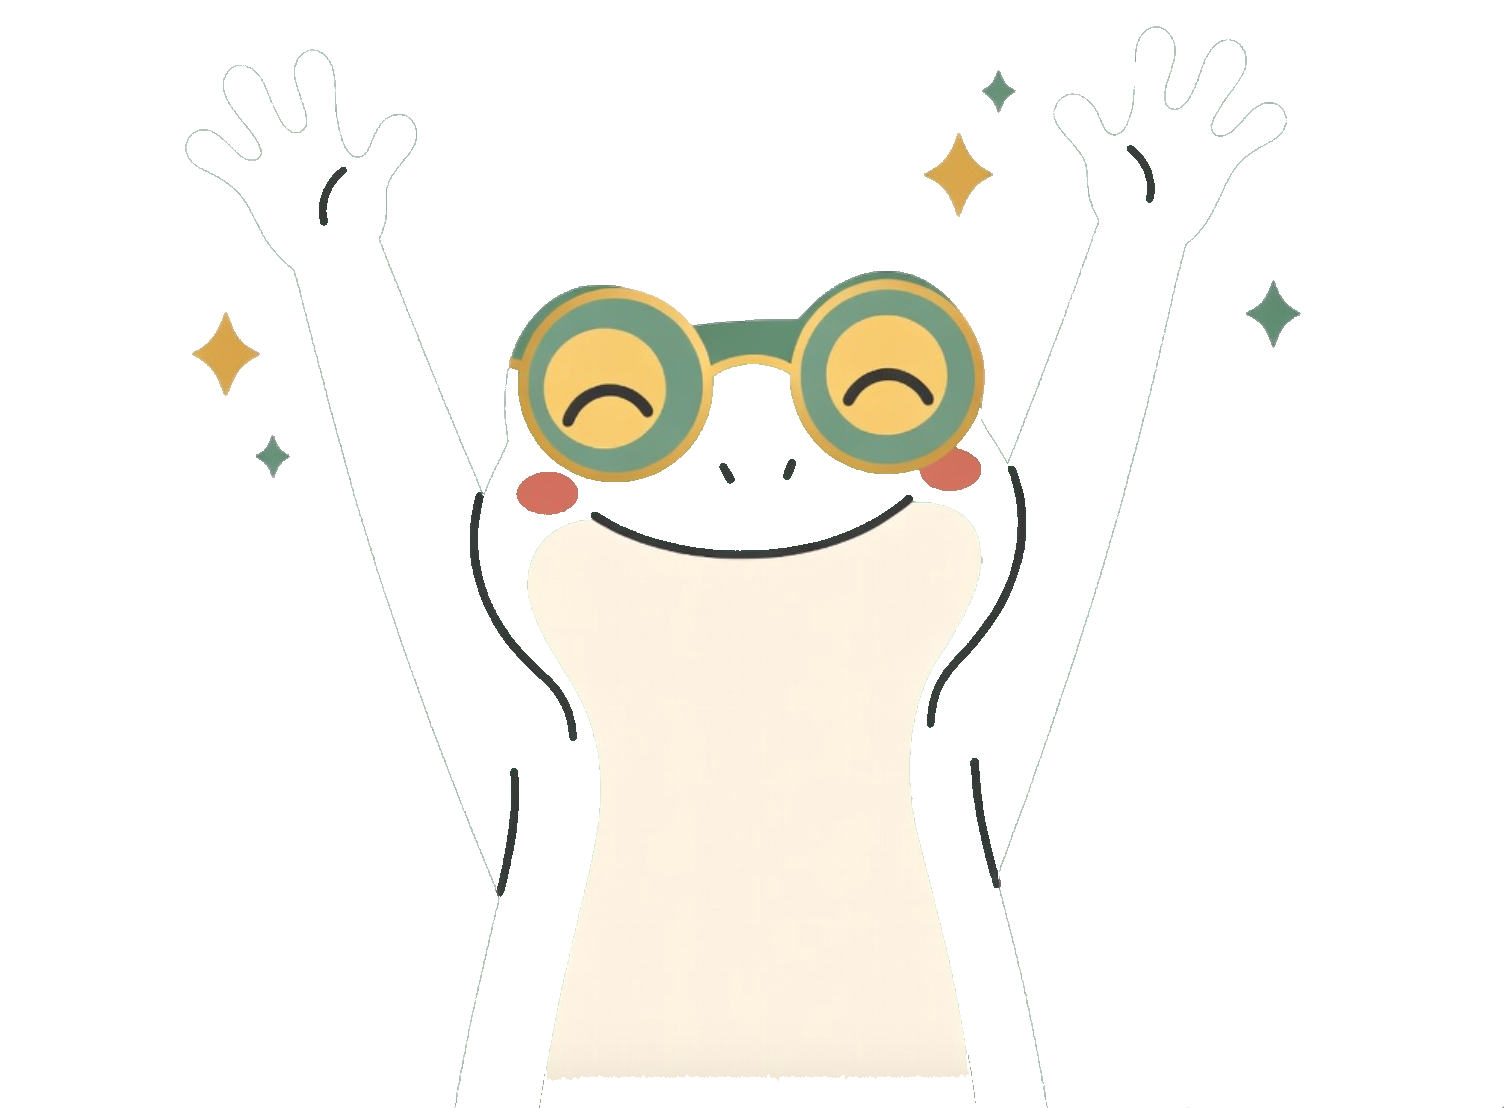
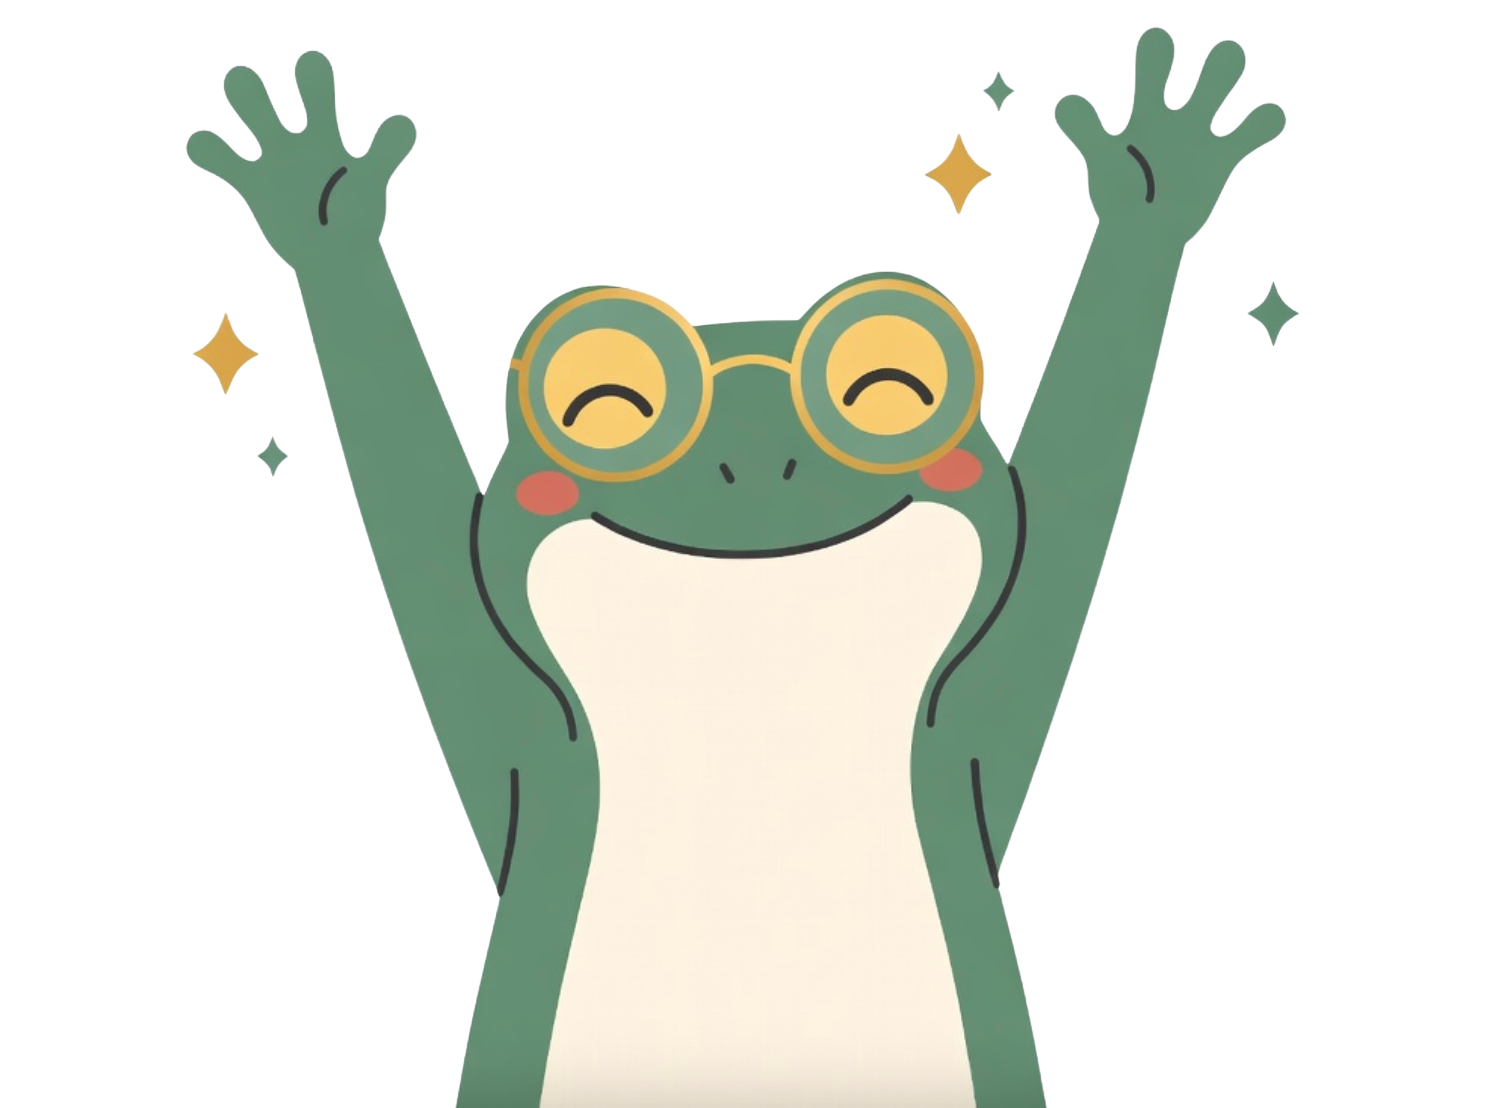
Edit index.html

Changed region(s): [[0.125, 0.0307, 0.875, 1.0]]

diff --git a/_hub.html b/_hub.html
@@ -373,13 +373,13 @@
             <a href="_portal.html" class="file-card" target="_blank">
               <span class="file-icon">📄</span>
               <span class="file-name">_portal.html</span>
-              <span class="file-meta">28.4 KB</span>
+              <span class="file-meta">28.9 KB</span>
             </a>
           
             <a href="_hub.html" class="file-card" target="_blank">
               <span class="file-icon">📄</span>
               <span class="file-name">_hub.html</span>
-              <span class="file-meta">35.3 KB</span>
+              <span class="file-meta">35.6 KB</span>
             </a>
           
             <a href="index.html" class="file-card" target="_blank">
@@ -481,6 +481,12 @@
         <h3>📁 Other Files</h3>
         <div class="file-grid">
           
+            <a href="uploads/2026-08-14_11-54-30 - Edited (1).png" class="file-card" target="_blank">
+              <span class="file-icon">🖼</span>
+              <span class="file-name">uploads/2026-08-14_11-54-30 - Edited (1).png</span>
+              <span class="file-meta">544.3 KB</span>
+            </a>
+          
             <a href="uploads/pasted-image-1786884897207.png" class="file-card" target="_blank">
               <span class="file-icon">🖼</span>
               <span class="file-name">uploads/pasted-image-1786884897207.png</span>
@@ -535,14 +541,8 @@
               <span class="file-meta">37.2 KB</span>
             </a>
           
-            <a href="uploads/pasted-image-1786831327079.png" class="file-card" target="_blank">
-              <span class="file-icon">🖼</span>
-              <span class="file-name">uploads/pasted-image-1786831327079.png</span>
-              <span class="file-meta">384.2 KB</span>
-            </a>
-          
         </div>
-        <p class="more-files">+39 more files</p>
+        <p class="more-files">+40 more files</p>
       </div>
     
 
@@ -580,7 +580,7 @@
         <div class="sidebar-panel">
           <h3>📊 Quick Stats</h3>
           <div class="quick-stat-grid">
-            <div class="qs-card"><div class="qs-val">63</div><div class="qs-label">Files</div></div>
+            <div class="qs-card"><div class="qs-val">64</div><div class="qs-label">Files</div></div>
             <div class="qs-card"><div class="qs-val">3</div><div class="qs-label">Pages</div></div>
             <div class="qs-card"><div class="qs-val">8</div><div class="qs-label">Code</div></div>
             <div class="qs-card"><div class="qs-val">0</div><div class="qs-label">Decisions</div></div>
@@ -596,19 +596,25 @@
               <li>
                 <span>📄</span>
                 <a href="_portal.html" target="_blank">_portal.html</a>
-                <span class="file-size">28.4 KB</span>
+                <span class="file-size">28.9 KB</span>
+              </li>
+            
+              <li>
+                <span>🖼</span>
+                <a href="uploads/2026-08-14_11-54-30 - Edited (1).png" target="_blank">uploads/2026-08-14_11-54-30 - Edited (1).png</a>
+                <span class="file-size">544.3 KB</span>
+              </li>
+            
+              <li>
+                <span>📄</span>
+                <a href="_hub.html" target="_blank">_hub.html</a>
+                <span class="file-size">35.6 KB</span>
               </li>
             
               <li>
                 <span>🖼</span>
                 <a href="uploads/pasted-image-1786884897207.png" target="_blank">uploads/pasted-image-1786884897207.png</a>
                 <span class="file-size">154.9 KB</span>
-              </li>
-            
-              <li>
-                <span>📄</span>
-                <a href="_hub.html" target="_blank">_hub.html</a>
-                <span class="file-size">35.3 KB</span>
               </li>
             
               <li>

diff --git a/_portal.html b/_portal.html
@@ -441,10 +441,10 @@
         <a href="#pages" class="nav-tab active">Pages (1)</a>
         <a href="#images" class="nav-tab">Images (8)</a>
         
-        <a href="#uploads" class="nav-tab">Uploads (19)</a>
+        <a href="#uploads" class="nav-tab">Uploads (20)</a>
         
         <a href="#screenshots" class="nav-tab">Screenshots (3)</a>
-        <a href="#" class="nav-tab">Files (59)</a>
+        <a href="#" class="nav-tab">Files (60)</a>
       </div>
     </div>
     <div class="nav-right">
@@ -469,7 +469,7 @@
         <span class="hero-stat-label">Custom Images</span>
       </div>
       <div class="hero-stat">
-        <span class="hero-stat-value">59</span>
+        <span class="hero-stat-value">60</span>
         <span class="hero-stat-label">Total Files</span>
       </div>
     </div>
@@ -546,8 +546,12 @@
     </style>
     
     <div class="materials-block" id="uploads">
-      <h3 class="materials-title">Your Uploads <span class="materials-count">19</span></h3>
-      <div class="materials-grid"><a class="material-card" href="https://app.empir3.com/workspace/fb895467-2852-4051-aa28-877708c08ccf/uploads/pasted-image-1786663123428.png" target="_blank" title="pasted-image-1786663123428.png">
+      <h3 class="materials-title">Your Uploads <span class="materials-count">20</span></h3>
+      <div class="materials-grid"><a class="material-card" href="https://app.empir3.com/workspace/fb895467-2852-4051-aa28-877708c08ccf/uploads/2026-08-14_11-54-30 - Edited (1).png" target="_blank" title="2026-08-14_11-54-30 - Edited (1).png">
+          <div class="material-preview"><img src="https://app.empir3.com/workspace/fb895467-2852-4051-aa28-877708c08ccf/uploads/2026-08-14_11-54-30 - Edited (1).png" alt="2026-08-14_11-54-30 - Edited (1).png" loading="lazy"></div>
+          <div class="material-name">2026-08-14_11-54-30 - Edited (1).png</div>
+        </a>
+<a class="material-card" href="https://app.empir3.com/workspace/fb895467-2852-4051-aa28-877708c08ccf/uploads/pasted-image-1786663123428.png" target="_blank" title="pasted-image-1786663123428.png">
           <div class="material-preview"><img src="https://app.empir3.com/workspace/fb895467-2852-4051-aa28-877708c08ccf/uploads/pasted-image-1786663123428.png" alt="pasted-image-1786663123428.png" loading="lazy"></div>
           <div class="material-name">pasted-image-1786663123428.png</div>
         </a>

diff --git a/index.html b/index.html
@@ -849,7 +849,7 @@ const FROG = {
   idle:  { src: 'images/frog-timer.png?v=2', alt: 'A friendly frog with glasses' },
   focus: { src: 'images/frog-focus.png?v=2', alt: 'A friendly frog leaning over a notebook with a pencil, deep in focus' },
   short: { src: 'images/frog-short.png?v=2', alt: 'A cozy frog with eyes closed, resting during a short break' },
-  long:  { src: 'images/frog-longbreak.png?v=3', alt: 'A cozy frog with arms raised in a quiet victory, celebrating a long break well earned' }
+  long:  { src: 'images/frog-longbreak.png?v=4', alt: 'A cozy frog with arms raised in a quiet victory, celebrating a long break well earned' }
 };
 
 /* ---------- audio ---------- */
